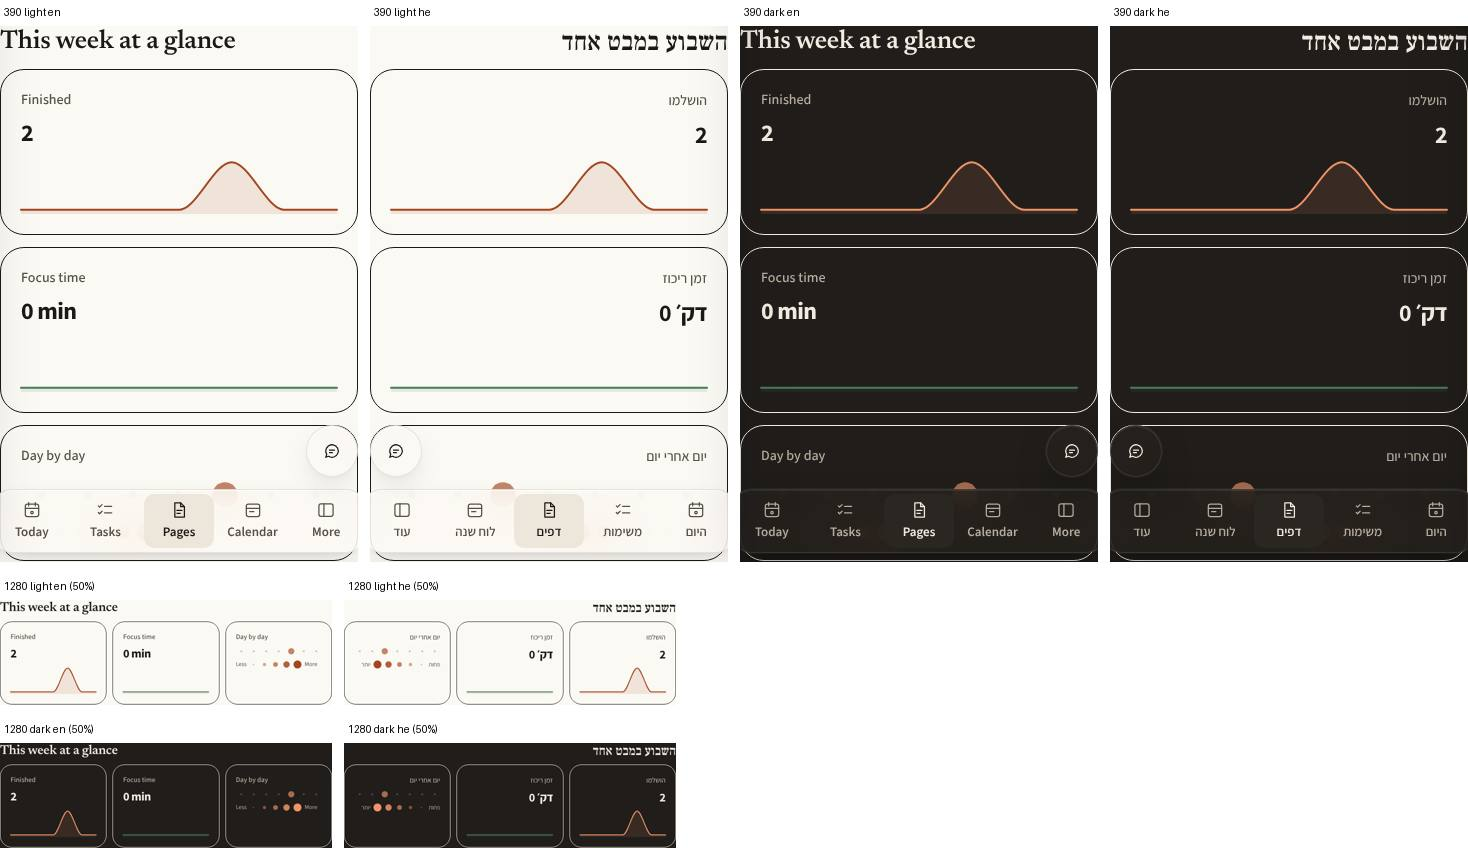
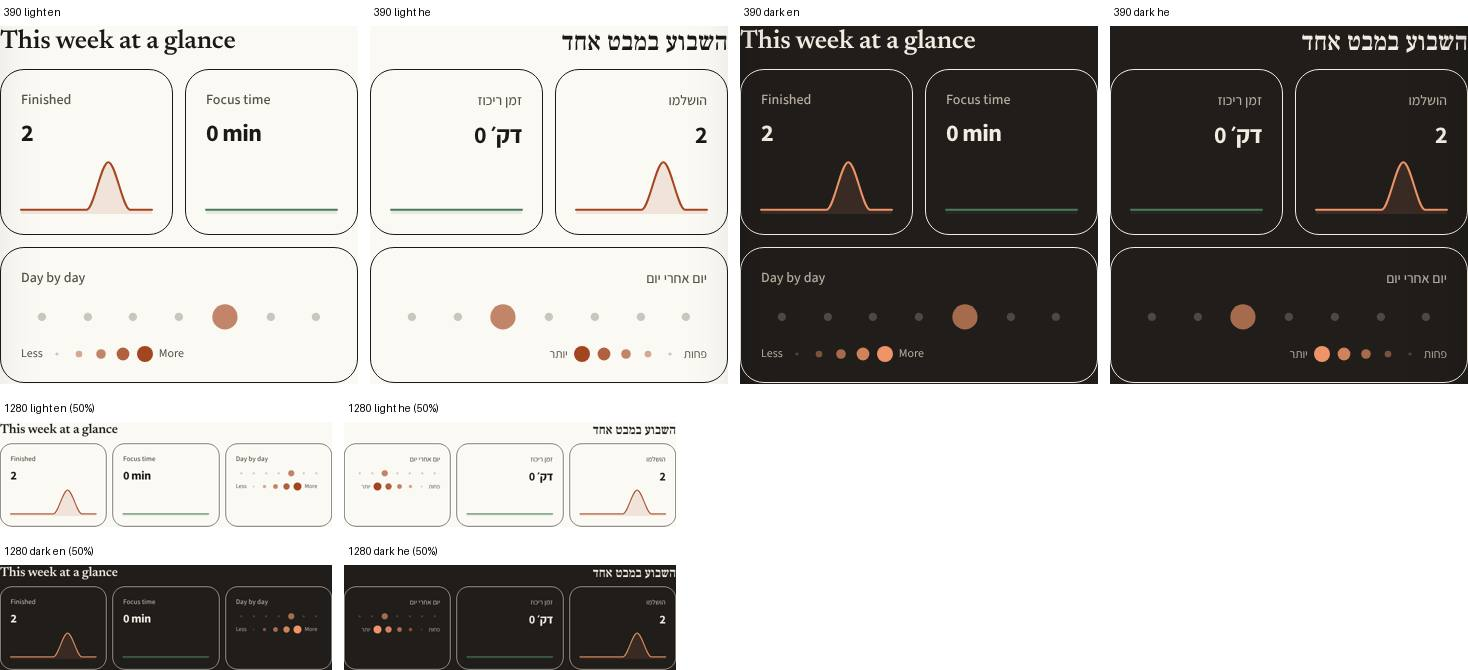
docs(run-log): S4 first-run sweep and weekly glance proven on the branch preview
Claude-Session: https://claude.ai/code/session_018Svm8wCSiFHfw9iia6QTtm

diff --git a/docs/sprint/RUN-LOG.md b/docs/sprint/RUN-LOG.md
@@ -42,6 +42,9 @@ How the runs work:
 | 08:25 | branch preview `44bd624` (account 1, 2 tasks ticked) | S4 | `/week` → this week's page: glance in all 8 variants, 0 errors: **Finished 2** (sparkline peaks on Friday), **Focus time 0 min**, the day grid with Less/More, readable in light and dark, en and he. At 390 the three cards stacked to ~600 px, so the two numbers now sit side by side | [weekly glance](../demo/evidence/s4-week-glance.jpg) |
 | 08:27 | branch preview `44bd624` | S3 | Plan view at 390 dark he: 390 px wide now (was 513), reasons wrap inside their chips | — |
 | 08:28 | — | S5 | `docs/demo/DEMO-SCRIPT.md` written: 5 minutes, the exact taps on phone and laptop, what to say, a "before the demo" list for Amit and a "if something goes sideways" table | [DEMO-SCRIPT.md](../demo/DEMO-SCRIPT.md) |
+| 08:24-08:30 | branch preview `44bd624` → `b7b1e0b` (account 2, first run) | S4 | **Proven on the branch preview**: signed-in sweep for a brand-new account, **384 renders of 48 routes, 0 failing, 0 network drops**, 390/1280 × light/dark × en/he. Empty and loading states read kindly; no page errors. Exits "FAIL" only for the 5 detail routes a new account has nothing to open (no goal, project, habit, routine or template yet) | sweep summary in the session's scratch folder |
+| 08:33 | branch preview `b7b1e0b` (account 1) | S4 | **Weekly glance re-shot on the final build**: at 390 the two numbers sit side by side and the day grid spans below; at 1280 three cards in a row. 8 variants. One console `ERR_TIMED_OUT` at 390-dark-en (a sandbox network drop; the glance rendered) | [weekly glance](../demo/evidence/s4-week-glance.jpg) |
+| 08:33 | `b7b1e0b` | checks | Local, Bun 1.3.9: lint, typecheck, test, scans pass. E2E: 27 passed, 89 skipped (need a signed-in state), 1 timed out on a cold dev-server compile (`task-views-core`); alone it passes (15.9 s). PR CI on `b7b1e0b`: ci, E2E, e2e-preview, Build, secret scans and config-guard green; scope-guard red (no ticket, Amit's call) | PR checks |
 
 ### UI ideas for next week
 
